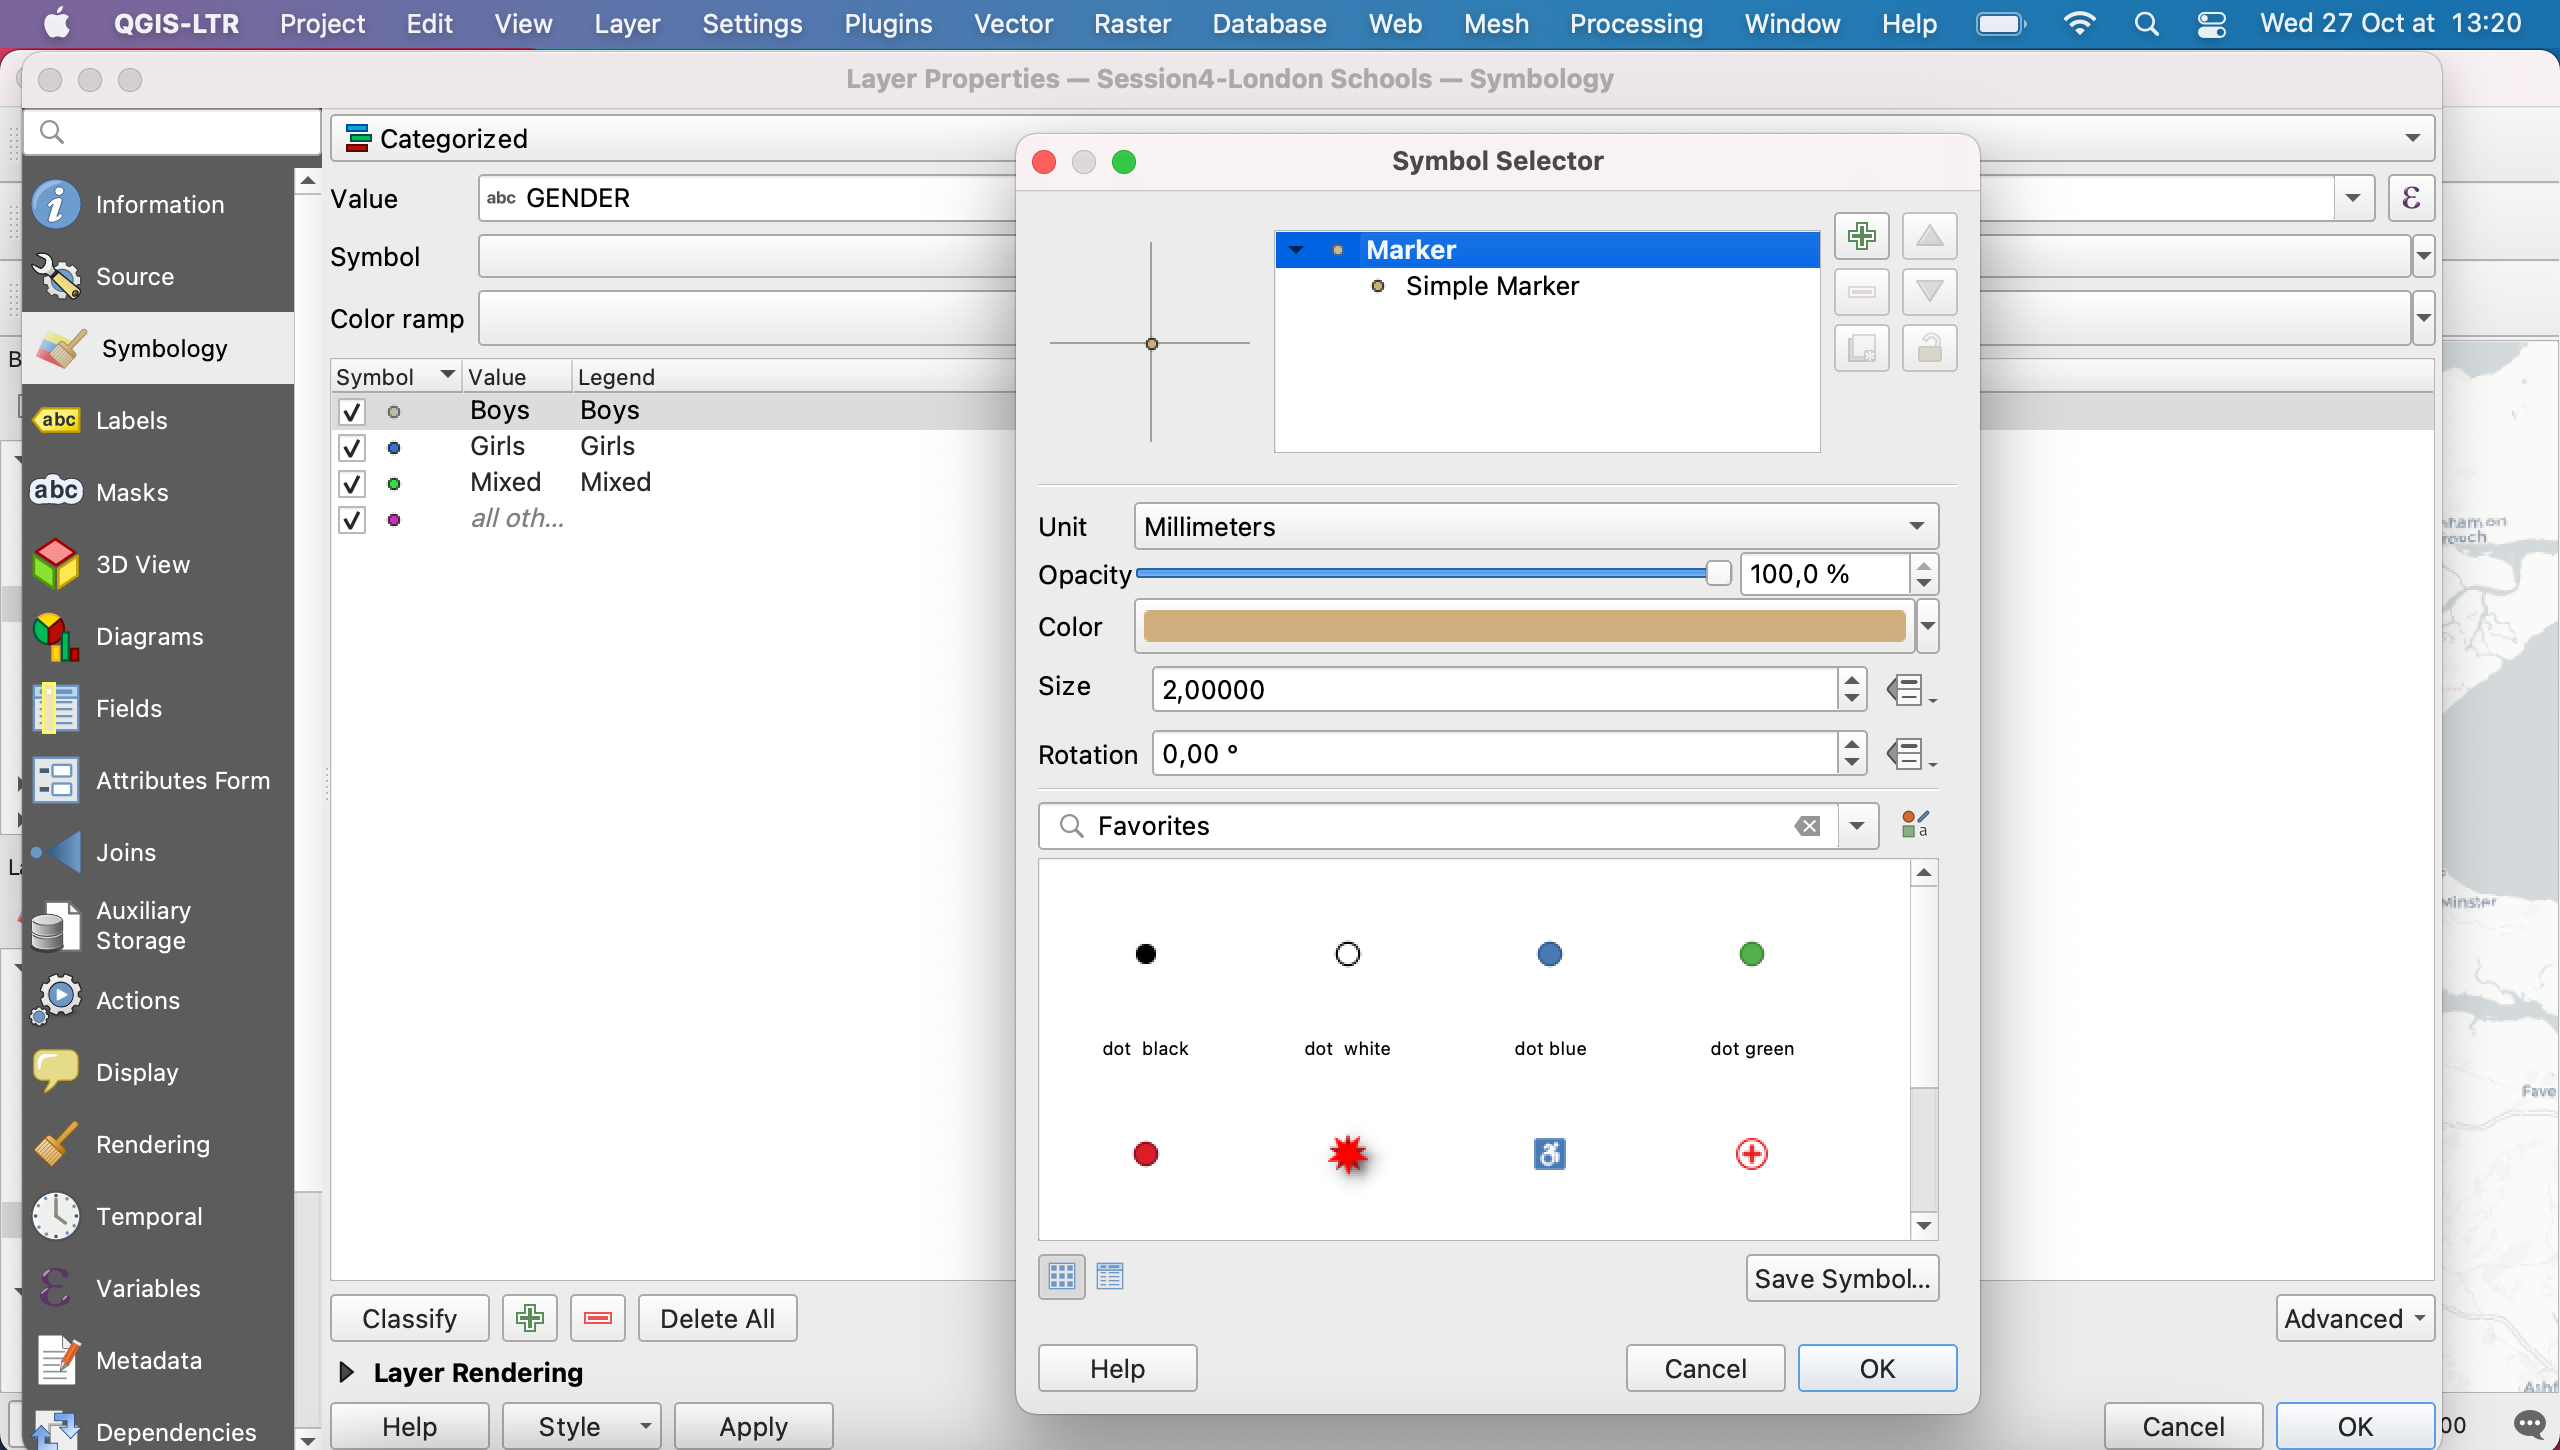
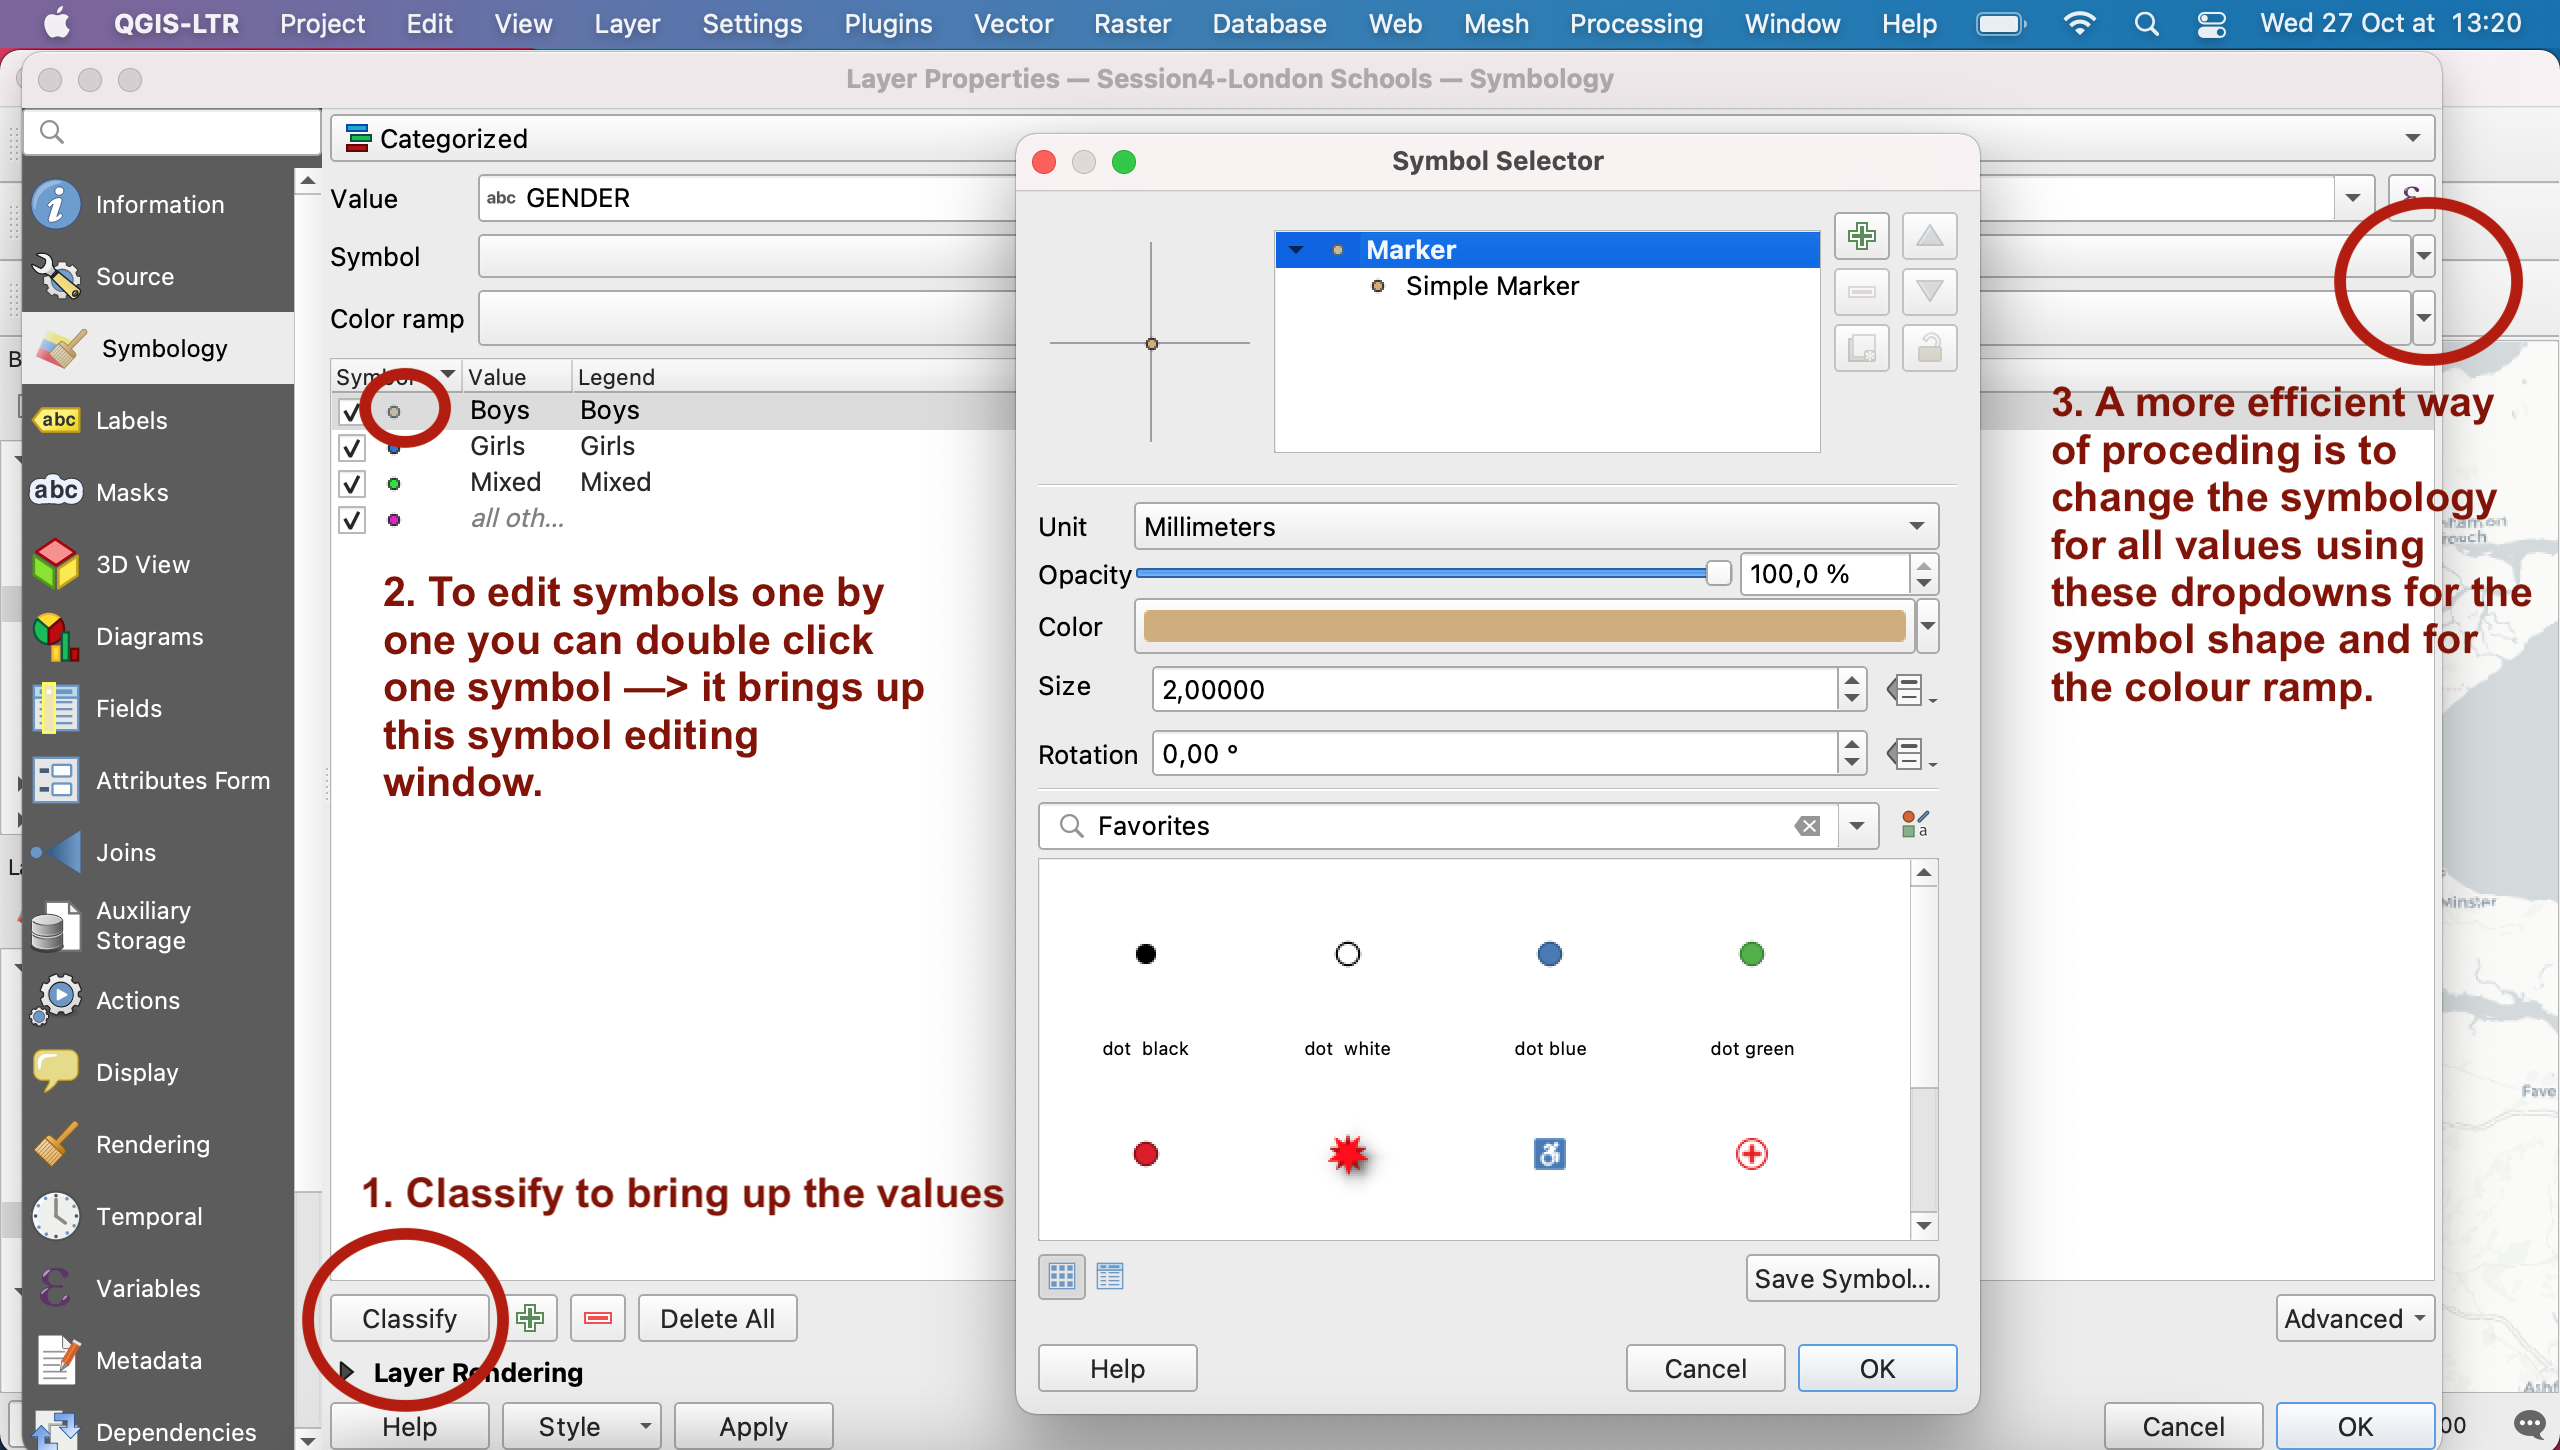
Symbology section

diff --git a/Session4/session4_tutorial.md b/Session4/session4_tutorial.md
@@ -61,7 +61,7 @@ After a few seconds to a few minutes, you shold get a success message, a 100% bl
 
 <img src="../img/S4-06.png" width="700">
 
-Note that QuickOSM is a very powerful way for you to get access to feature geometries! However attributes can sometimes be a bit messy or lack consistency (same feature types might be given different names) and tedious to navigate.
+Note that QuickOSM is a very powerful way for you to get access to feature geometries! However attributes can sometimes be a bit messy or lack consistency (same feature types might be given different names), which may make them tedious to navigate.
 
 
 Let's have a look at those layers. For cycling lane you would expect to work with lines, however QuickOSM also loaded a point layer. If you double-click the attribute table, you will notice that those points are actually *nodes* and don't contain especially useful attributes. We can't really use this layer to do anything so we will just remove it from our project.
@@ -83,6 +83,7 @@ The polygon layer also doesn't make much sense and only contains a single record
 
 
 **Scratch layer Warning!** 
+
 When you create a new layer using a geoprocessing tool (or in this case the QuickOSM plugin), QGIS will produce a temporary layer, aka "scratch layer". This layer only exists for you in _this_ open session of QGIS and **is not saved anywhere on your computer**. This means unless you do something about it, the layer will be gone next time you reopen this project. Make sure you avoid this rookie mistake by checking that none of your layers display the little hairy box sign. If they do (like in this case, the layers you just queries from OSM) double click and save the layers you want to keep into your project geopackage (give each layer a meaningful name) or as a new shapefile in your project folder. The little hairy box icon will disappear after you save the layer somewhere on your computer.
 
 <img src="../img/S4-07.png" width="700">
@@ -119,24 +120,31 @@ Using the single symbol, try to change the opacity, size and colour of your poin
 
 <img src="../img/S4-14.png" width="700">
 
-Now click on the `Simple Marker` to access further customization options. A useful one is the size and colour of stroke, and the shape of your marker. 
+Now click on the `Simple Marker` to access further customization options. A few useful ones include the size and colour of stroke, and the shape of your marker. 
 
 <img src="../img/S4-15.png" width="700">
 
-Note that you can even use common logos or import your own SVG or raster symbols to use as markers - for instance here under `Symbol layer type` select `SVG marker` , scroll down and you have access to a large array of logos, including this school logo. You can try it out, then please reverseback to a simple marker symbology of size 2mm and grey colour.
+Note that you can even use common logos or import your own SVG or raster symbols to use as markers - for instance here under `Symbol layer type` select `SVG marker` , scroll down and you have access to a large array of logos, including this school logo. You can try it out, notice that it is not the right choice in this case and then please reverse back to a simple marker symbology of size 2mm and grey colour.
 
 <img src="../img/S4-16.png" width="700">
 
 
-Now that you know more about the symbology customization, let's move on to something more useful for understanding our data. We decide we actually only want to work on primary schools that are currently operational (not closed, not opening in the future). To do so, we want to edit the definition query of our layer so that we only display the open primary school features. Navigate to your `Source` tab, and click `Query builder`. FInd out what values are available for different fields. For instance select `STATUS` and click on Sample `All` values. You can double click a field, an operator and a value to directly add them into your expression. Use `Test` to see if your expression has any syntax error.
+Now that you know more about the symbology customization, let's move on to something more useful for understanding our data. We decide we actually only want to work on primary schools that are currently operational (not closed, not opening in the future). To do so, we want to edit the definition query of our layer so that we only display the open primary school features. Navigate to your `Source` tab, and click `Query builder`. Find out what values are available for different fields. For instance select `STATUS` and click on Sample `All` values. You can double click a field, an operator and a value to directly add them into your expression. Use `Test` to see if your expression has any syntax error.
 Write the query that keeps primary schools that are still open, click OK to close this window, click `Apply` in the `Source` tab and go back to your `Symbology` tab.
 
 <img src="../img/S4-17.png" width="700">
 
-We are now interested in displaying mixed gender and separated boys/girls schools in different colours, to see if there is any geographical pattern as to where certain types of schools can be found. To do so, we will use a `Categorized` symbology and pick `GENDER` as our value. Click `Classify` to load the Gender values into your legend. Note that you can update your base symbol and choose a specific colour ramp, or you can edit each symbol one by one by clicking on them directly.
+We are now interested in displaying the different types of schools in different colours, to see if there is any geographical pattern as to where certain types of schools can be found. To do so, we will use a `Categorized` symbology and pick `TYPE` as our value. 
 
 <img src="../img/S4-18.png" width="700">
 
+Click `Classify` to load the Types values into your legend. Note that you can update your base symbol (click on the `Symbol` dropdown arrow then `Configure symbol`) and choose a specific colour ramp from the many available. Because we are using categorical variables here, we prefer to avoid using a sequential palette which would imply some form of order among the values (there is no order here, they're just three different values). You can also edit each symbol one by one by clicking on them directly.
+
+<img src="../img/S4-19.png" width="700">
+
+You can explore the many options available to you in the colour ramp (including shuffling the colours currently assigned to your values, creating your own random colour palette or editing existing ones).
+
+<img src="../img/S4-20.png" width="700">
 
 
 To go further, read more about the symbology on the [Documentation](https://docs.qgis.org/3.16/en/docs/training_manual/basic_map/symbology.html)
